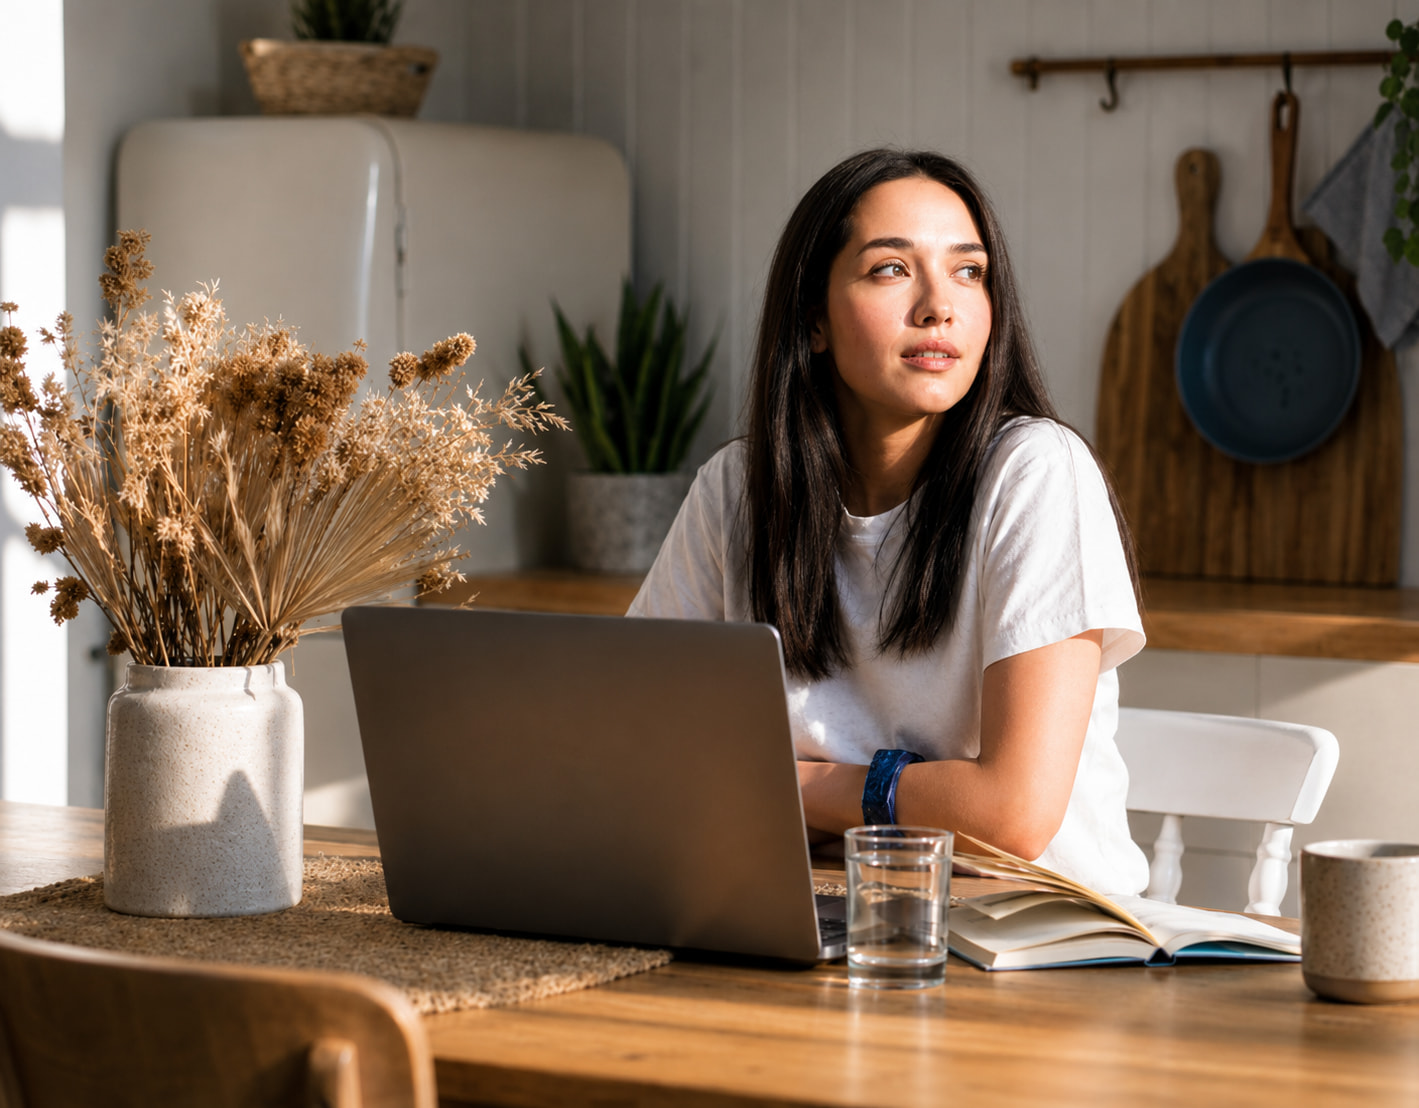
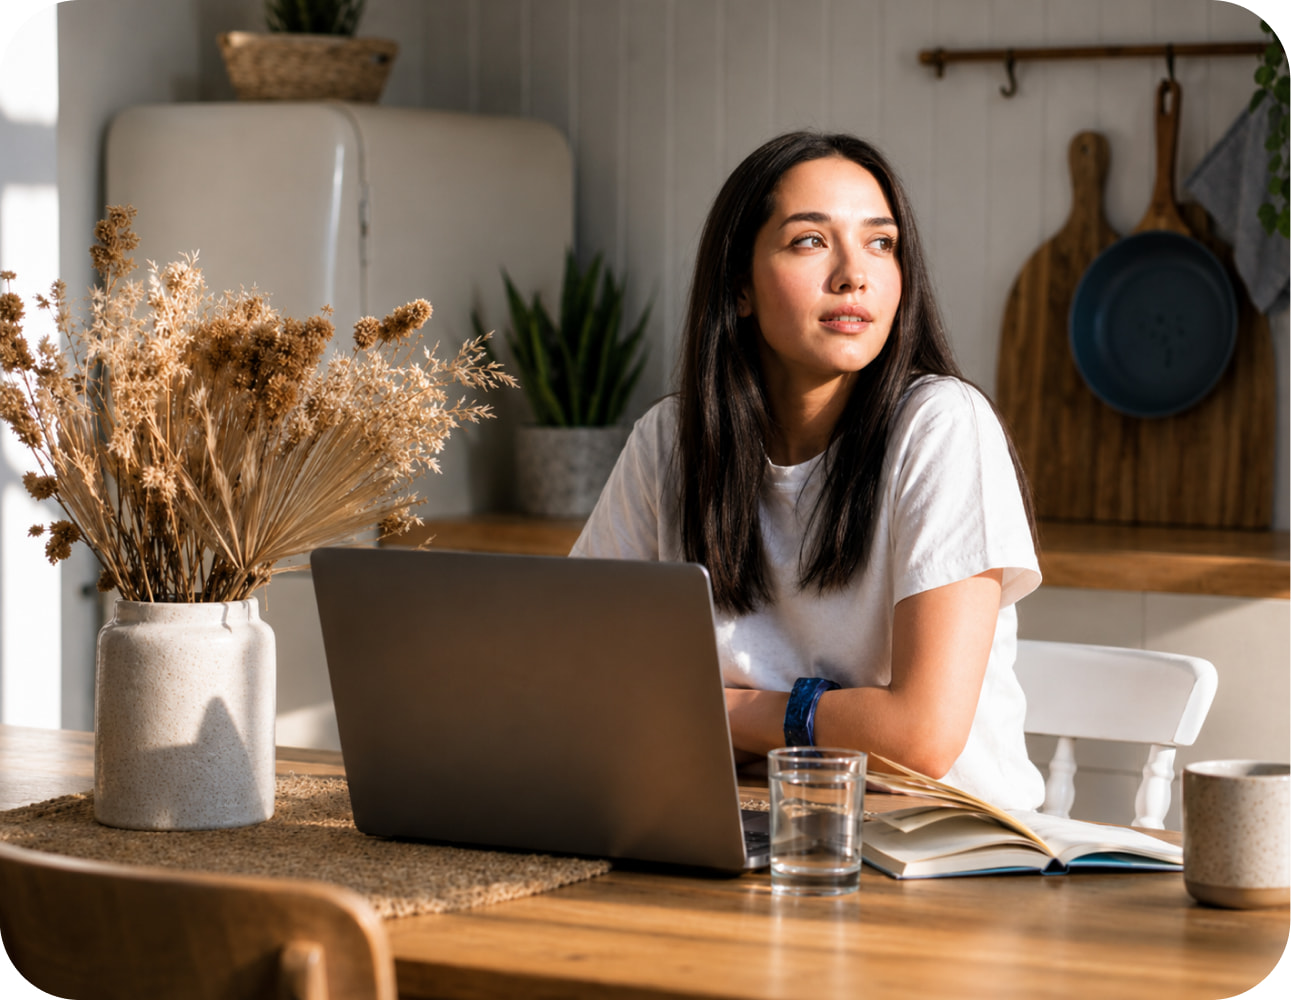
/snacks Problem: new copy + photography from Figma 2500:5939
The /snacks frame on the Dev Ready page revises the whole Problem block:

  heading  "Office snacks become one person's job" -> "Nice gestures don't scale"
  subhead  rewritten
  card 1   "Ordering lands on one person"      -> "Asking ruins the surprise"
  card 2   "Remote folks get overlooked"       -> "One person ends up running it"
  card 3   "Dietary needs are a guessing game" -> "Nothing happens unless someone remembers"

Cards 2 and 3 also get new photos (card 1 was unchanged); all three
re-exported at 4x from the tray node 2500:6084.

Swept the rest of the frame before committing — hero (2500:5982), the four
catalog cards, the six platform tiles and the step-01 mockup all diff to
0% against what already ships, so nothing else changed.

diff --git a/app/components/SnackProblem.tsx b/app/components/SnackProblem.tsx
@@ -1,7 +1,7 @@
 /* /snacks · THE PROBLEM (Figma 2208:2876, revised 2026-08-18). A rounded
    "sleeve" panel (Figma "glass": medium blue at the logo wall fading to white)
    sits on the hero blue and holds the trust logos (60px above/below), then a
-   plain white rounded card with the "Office snacks become one person's job"
+   plain white rounded card with the "Nice gestures don't scale"
    header and a grey tray of three photo cards. The old stacked "page" peek bars
    behind the card were REMOVED in this revision. */
 
@@ -25,18 +25,21 @@ const LOGOS = [
 const CARDS: { img: StaticImageData; title: string; desc: string }[] = [
   {
     img: prob1,
-    title: "Ordering lands on one person",
-    desc: "Restocking, estimating quantities, and hoping the snacks are a hit.",
+    title: "Asking ruins the surprise",
+    desc:
+      "You can’t send something unexpected to someone you just emailed for their address. The moment you start collecting details, the gift announces itself.",
   },
   {
     img: prob2,
-    title: "Remote folks get overlooked",
-    desc: "A stocked office kitchen only works for people who are in the office.",
+    title: "One person ends up running it",
+    desc:
+      "Someone chases every address, every diet and every “mine never arrived”—then hopes the picks landed.",
   },
   {
     img: prob3,
-    title: "Dietary needs are a guessing game",
-    desc: "One snack box rarely works for everyone.",
+    title: "Nothing happens unless someone remembers",
+    desc:
+      "There’s no trigger, no schedule, nothing running in the background. Every anniversary and every new hire gets marked only if a human catches it in time.",
   },
 ];
 
@@ -83,15 +86,16 @@ export default function SnackProblem() {
                 data-animation="reveal"
                 className="font-[family-name:var(--font-satoshi)] text-[1.75rem] font-bold leading-[1.08] tracking-[-0.03125rem] text-[#16171b] md:text-[2.25rem] lg:text-[2.75rem]"
               >
-                Office snacks become one person’s job
+                Nice gestures don’t scale
               </h2>
             </div>
             <p
               data-animation="reveal"
               className="font-sans text-[1.0625rem] leading-[1.48] text-[#6b6c71] lg:text-[1.125rem]"
             >
-              Remote employees need separate shipping. Dietary needs keep shifting.
-              And it’s all one more recurring task to manage.
+              The best sends feel personal—something they’d never have picked up
+              for themselves and show up out of nowhere. But then you realize you
+              need forty addresses, and you’re emailing people to ask.
             </p>
           </div>
 
